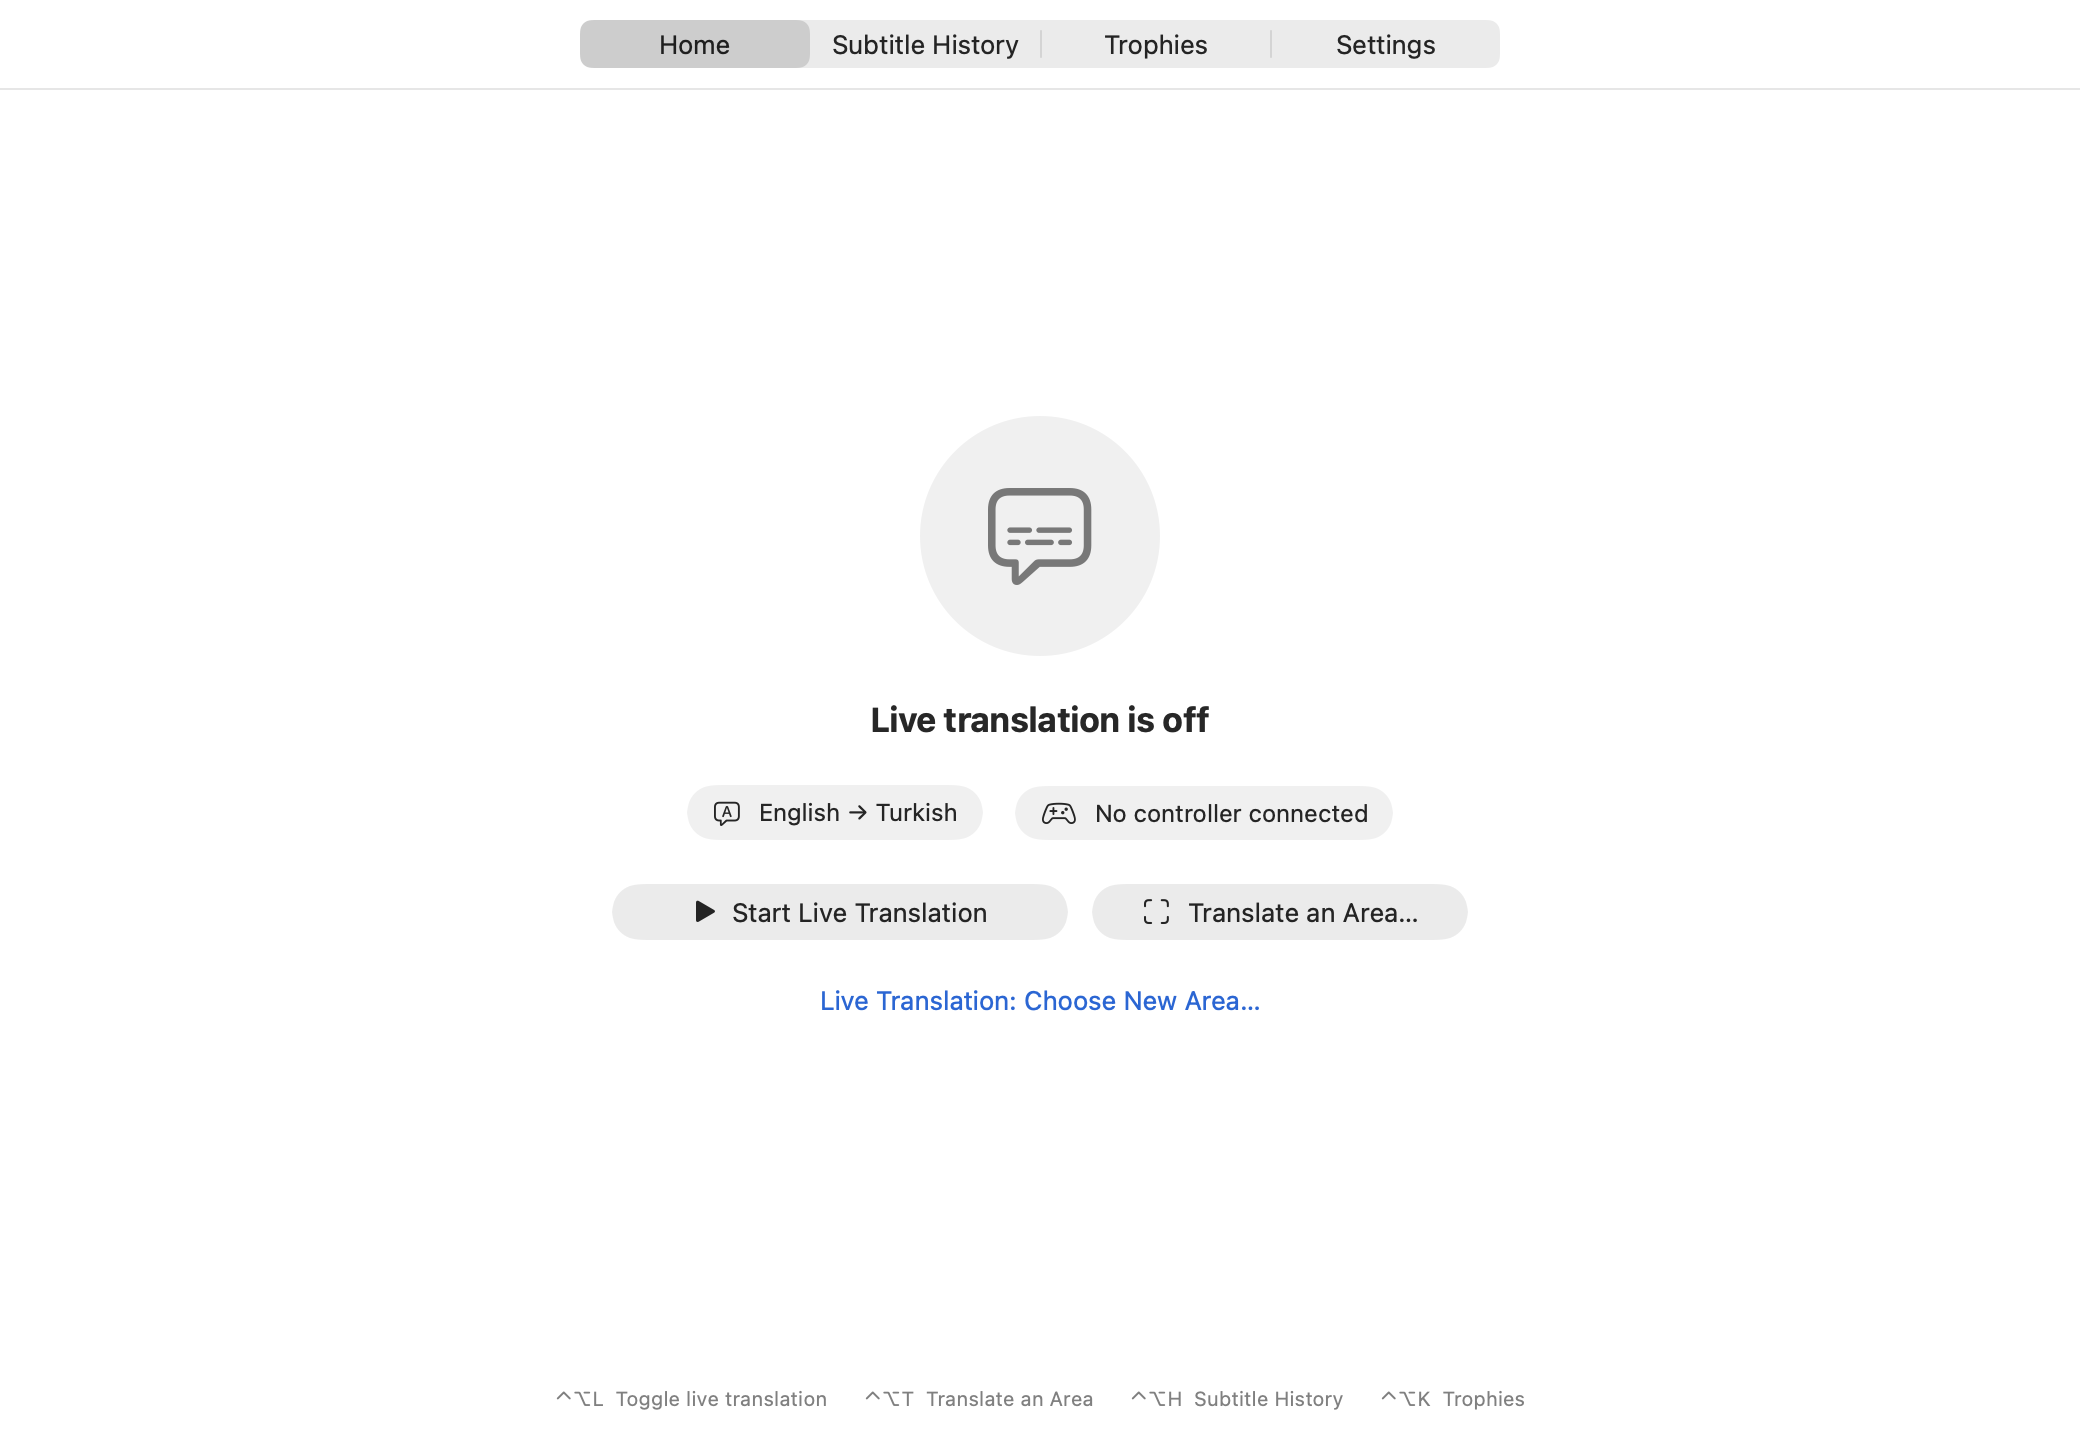
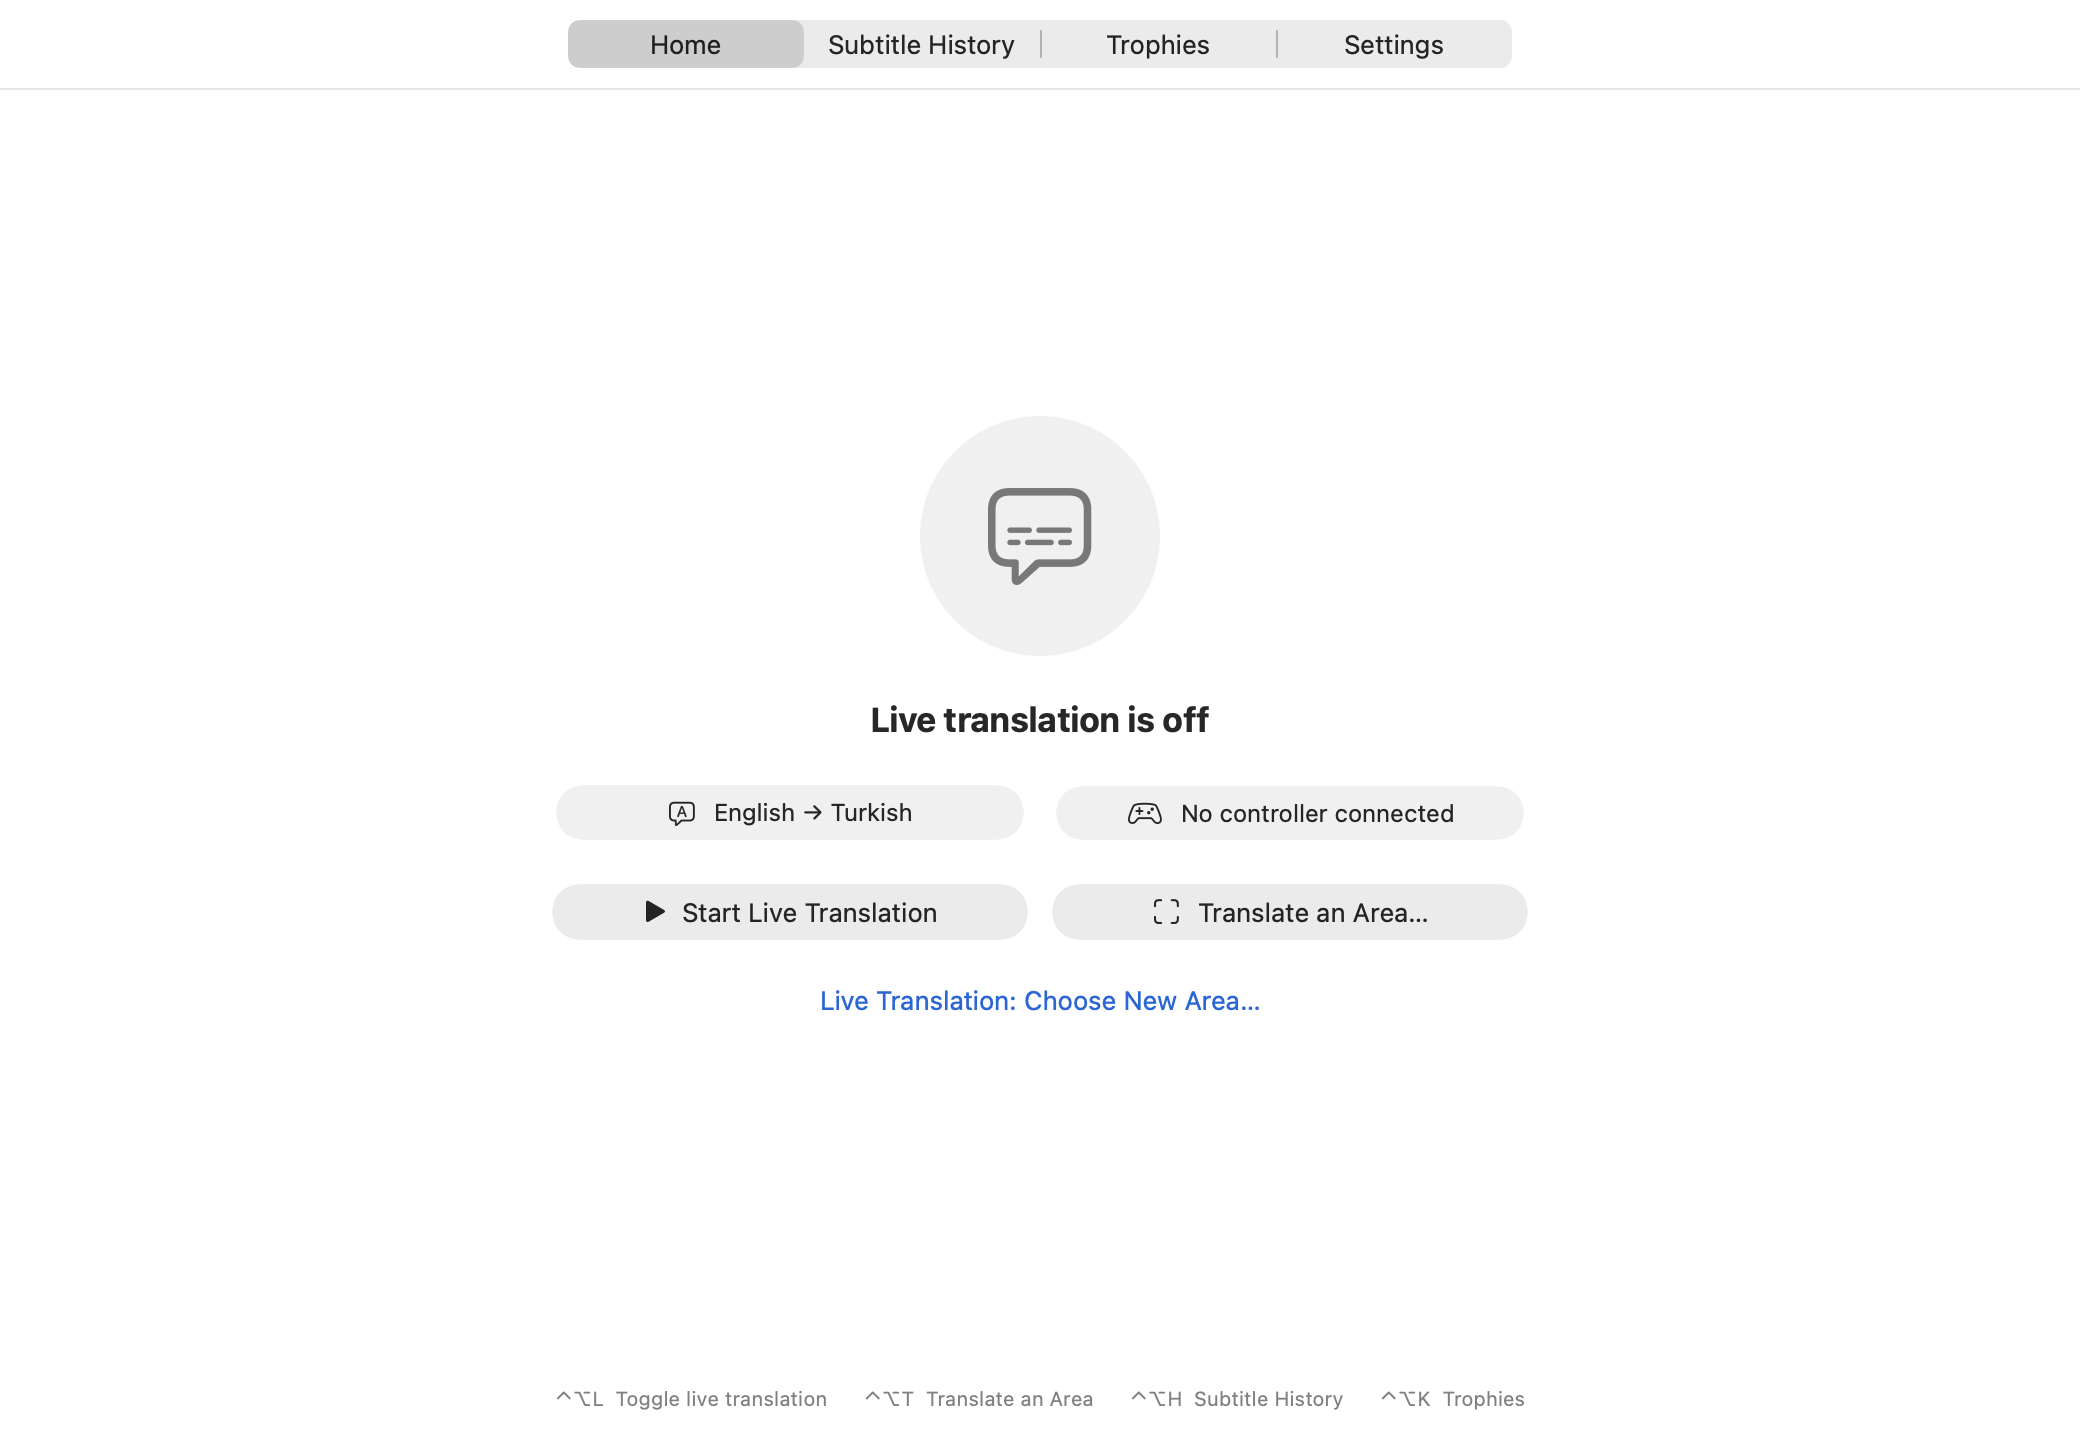
Prepare for public release: version 1.0.0, no personal identifiers, current screenshots

diff --git a/Sources/Overlay/SubtitlePanel.swift b/Sources/Overlay/SubtitlePanel.swift
@@ -60,7 +60,7 @@ struct SubtitleView: View {
     let minHeight: CGFloat
     let background: Double
 
-    /// "MEHMET: naber" → the name in the accent colour games use for speakers, the line in white.
+    /// "ENZO: Ciao." → the name in the accent colour games use for speakers, the line in white.
     private var styled: Text {
         let parts = SubtitleText.splitSpeaker(text)
         guard !dimmed, let speaker = parts.speaker else { return Text(text) }
